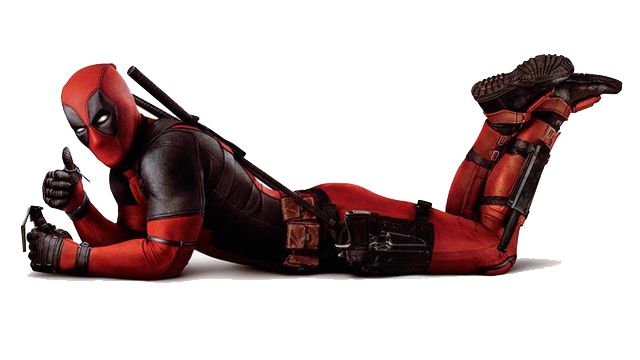
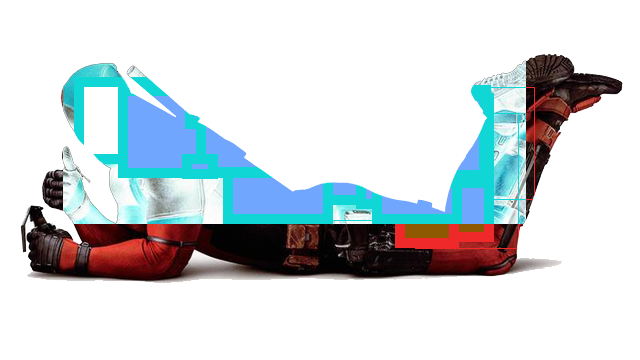
rotate 50

Changed region(s): [[0.0938, 0.1528, 0.8438, 0.7028]]

diff --git a/png/image.cpp b/png/image.cpp
@@ -8,13 +8,13 @@ int Image::open_png_file(const char *file_name){
     /* open file and test for it being a png */
     FILE *fp = fopen(file_name, "rb");
     if (!fp){
-      cout << "Can't open file to read. Bye\n";
+      //cout << "Can't open file to read. Bye\n";
       return -1;
     }
 
     fread(header, 1, 8, fp);
     if (png_sig_cmp(header, 0, 8)!=0) {
-      cout << "file is not recognized as a PNG. Bye\n";
+      //cout << "file is not recognized as a PNG. Bye\n";
       return -1;
       // Some error handling: file is not recognized as a PNG
     }
@@ -69,6 +69,13 @@ int Image::open_png_file(const char *file_name){
     if (Bitmap.color_type == PNG_COLOR_TYPE_GRAY && Bitmap.bit_depth < 8) png_set_expand_gray_1_2_4_to_8(Bitmap.png_ptr);
     // и добавляем полный альфа-канал
     if (png_get_valid(Bitmap.png_ptr, Bitmap.info_ptr, PNG_INFO_tRNS)) png_set_tRNS_to_alpha(Bitmap.png_ptr);
+
+    // These color_type don't have an alpha channel then fill it with 0xff.
+    if(Bitmap.color_type == PNG_COLOR_TYPE_RGB ||
+       Bitmap.color_type == PNG_COLOR_TYPE_GRAY||
+       Bitmap.color_type == PNG_COLOR_TYPE_PALETTE)
+        png_set_filler(Bitmap.png_ptr,0xFF, PNG_FILLER_AFTER);
+
     //grey to rgb
     if (Bitmap.color_type == PNG_COLOR_TYPE_GRAY || Bitmap.color_type == PNG_COLOR_TYPE_GRAY_ALPHA)
       png_set_gray_to_rgb(Bitmap.png_ptr);
@@ -83,13 +90,15 @@ int Image::open_png_file(const char *file_name){
     Bitmap.bit_depth = png_get_bit_depth(Bitmap.png_ptr, Bitmap.info_ptr);
     Bitmap.number_of_passes = png_set_interlace_handling(Bitmap.png_ptr);
 
-
+    Bitmap.color_type=6;
     printf("color_type = %d\n",Bitmap.color_type);
 
 
+    //cout<< res_x<<"\n" << res_y<<"\n";
+
     /* read file */
     if (setjmp(png_jmpbuf(Bitmap.png_ptr))){
-      cout << "can't read image\n";
+     // cout << "can't read image\n";
       return -1;
     }
 
@@ -161,7 +170,7 @@ int Image::save_png_file(const char *file_name){
     }
 
     png_set_IHDR(Bitmap.png_ptr, Bitmap.info_ptr, Bitmap.width, Bitmap.height,
-                 Bitmap.bit_depth, Bitmap.color_type, PNG_INTERLACE_NONE,
+                 Bitmap.bit_depth, PNG_COLOR_TYPE_RGBA, PNG_INTERLACE_NONE,
                  PNG_COMPRESSION_TYPE_BASE, PNG_FILTER_TYPE_BASE);
 
     png_write_info(Bitmap.png_ptr, Bitmap.info_ptr);
@@ -182,6 +191,7 @@ int Image::save_png_file(const char *file_name){
         //cout <<"error during writing bytes\n";
         return -1;
     }
+
 
     png_write_image(Bitmap.png_ptr, Bitmap.row_pointers);
 
@@ -298,6 +308,119 @@ void Image::rec_fill(int x1,int y1,int x2, int y2, int thickness, QColor fill_co
             }
 }
 
+void Image::division(int N, int M, int thickness, QColor color){
+    unsigned int space_y=(Bitmap.height -(N-1)*thickness)/N;
+    unsigned int space_x=(Bitmap.width-(M-1)*thickness)/M;
+    int comst=0;
+    for (int y=space_y;y<Bitmap.height-space_y;y=y+space_y) {
+            comst=y;
+            for(y;y<comst+thickness;y++){
+                for(png_uint_32 x=0;x<Bitmap.width;x++){
+                    Bitmap.Pixels[y][x].red = static_cast<uint8_t>( color.red());
+                    Bitmap.Pixels[y][x].green = static_cast<uint8_t>( color.green());
+                    Bitmap.Pixels[y][x].blue = static_cast<uint8_t>( color.blue());
+                }
+                //printf("%d\n",y);
+            }
+        }
+        for(int y=0;y<Bitmap.height;y++){
+            //png_byte *row = image->row_pointers[y];
+            for (int x=space_x;x<Bitmap.width-space_x;x=x+space_x) {
+                comst=x;
+                for (x;x<comst+thickness;x++) {
+                    //png_byte *ptr = &(row[x * 3]);
+                    Bitmap.Pixels[y][x].red = static_cast<uint8_t>( color.red());
+                    Bitmap.Pixels[y][x].green = static_cast<uint8_t>( color.green());
+                    Bitmap.Pixels[y][x].blue = static_cast<uint8_t>( color.blue());
+                }
+            }
+        }
+
+}
+
+int Image::rotate(int x1,int y1,
+            int x2, int y2,
+                   int angle){
+    if (x2 < x1)
+            std::swap(x1, x2);
+    if (y2 < y1)
+        std::swap(y1, y2);
+    Pixel_t **Pixels2 = static_cast<Pixel_t **>(malloc(sizeof(Pixel_t *) * Bitmap.height));
+    for (int i = 0; i < Bitmap.height; i++) {
+        Pixels2[i] = static_cast<Pixel_t*>(calloc(sizeof(Pixel_t), Bitmap.width));
+    }
+
+    for (int y = 0; y < Bitmap.height; y++){
+        for (int x = 0; x < Bitmap.width; x++){
+            Pixels2[y][x] = Bitmap.Pixels[y][x];
+        }
+    }
+
+    if(angle == 90){
+        int mid_x=x2-(x2-x1)/2;
+        int mid_y=y2-(y2-y1)/2;
+        /*if((x2-x1)/2>(y2-y1/2)||(x2-x1)/2>Bitmap.height-(y2-y1/2)){
+            return -1;
+        }
+        if((y2-y1)/2>(x2-x1/2)||(y2-y1)/2>Bitmap.width-(x2-x1/2)){
+            return -1;
+        }*/
+
+        int lenx=x2-x1;
+        int leny=y2-y1;
+        Pixel_t **tmp = static_cast<Pixel_t **>(malloc(sizeof(Pixel_t *)*lenx));
+        for (int i = 0; i < lenx; i++) {
+            tmp[i] = static_cast<Pixel_t*>(calloc(sizeof(Pixel_t), leny));
+        }
+
+        for (int y = 0; y < leny; y++){
+            for (int x = 0; x < lenx; x++){
+
+                //Pixels2[y][x]= Bitmap.Pixels[y][x];
+                tmp[x][leny-1-y]=Pixels2[y+y1][x+x1];
+            }
+        }
+
+        for (int y = y1; y < y2; y++){
+            for (int x = x1; x < x2; x++){
+
+                //Pixels2[y][x]= Bitmap.Pixels[y][x];
+                Pixels2[y][x].red=255;
+                Pixels2[y][x].green=255;
+                Pixels2[y][x].blue=255;
+            }
+        }
+
+        for (int y = 0; y < lenx; y++){
+            for (int x = 0; x < leny; x++){
+
+                //Pixels2[y][x]= Bitmap.Pixels[y][x];
+
+                Pixels2[mid_y-lenx/2+y][mid_x-leny/2+x]=tmp[y][x];
+            }
+        }
+
+    }
+
+    if(angle == 180){
+
+        for (int y = y1; y < y2; y++){
+            for (int x = x1; x < x2; x++){
+                Pixels2[y1+y2-y][x1+x2-x]= Bitmap.Pixels[y][x];
+            }
+        }
+    }
+
+
+    Pixel_t **Pixels1 = Bitmap.Pixels;
+    Bitmap.Pixels = Pixels2;
+
+    for(int y = 0; y < Bitmap.height; y++) {
+        free(Pixels1[y]);
+    }
+    free(Pixels1);
+    return 0;
+}
 
 QPixmap Image::get_pixmap()
 {
@@ -308,7 +431,7 @@ QPixmap Image::get_pixmap()
             pixel.setRed(Bitmap.Pixels[y][x].red);
             pixel.setGreen(Bitmap.Pixels[y][x].green);
             pixel.setBlue(Bitmap.Pixels[y][x].blue);
-            image->setPixel(x, y, pixel.rgb());
+            image->setPixel(x, y, pixel.rgba());
         }
     }
     return QPixmap::fromImage(*image);

diff --git a/png/mainwindow.cpp b/png/mainwindow.cpp
@@ -29,6 +29,11 @@ void MainWindow::on_open_triggered()
         QMessageBox::critical(this, "Ошибка", "Не удалось открыть изображение");
     }
     //picture->new_size(img->Bitmap.width,img->Bitmap.height);
+    if(img->Bitmap.color_type!=6){
+        QMessageBox::critical(this, "YOU SHAL NOT PASS", "ЭТО НЕ RGBA");
+        return;
+    }
+    filename=file_name;
     picture->update(img->get_pixmap());
     ui->gridLayout->addWidget(picture);
     //QMessageBox::critical(this, "Ошибка", file_name);
@@ -68,6 +73,15 @@ void MainWindow::on_Rectangle_clicked()
 
 }
 
+void MainWindow::on_refrsh_triggered()
+{
+    if (img->open_png_file(filename.toLocal8Bit().constData())){
+        QMessageBox::critical(this, "Ошибка", "Не удалось открыть изображение");
+    }
+    picture->update(img->get_pixmap());
+    ui->gridLayout->addWidget(picture);
+}
+
 void MainWindow::on_exit_triggered()
 {
     QMessageBox::StandardButton reply = QMessageBox::question(this,"Прощай","Ты хочешь покинуть меня?", QMessageBox::Yes | QMessageBox::No);
@@ -98,20 +112,41 @@ void MainWindow::selection(){
             QMessageBox::critical(this, "Ошибка", "Неккоректно задана область");
             return;
         }
-            key=img->print_rectangle(picture->click_coordinate.x1, picture->click_coordinate.y1, picture->click_coordinate.x2, picture->click_coordinate.y2,sett->rec_line_size,sett->rec_line_color);
-            if(key==-1){
-                QMessageBox::critical(this, "Ошибка", "Недопустимые размеры области при заданной ширине");
-                return;
-            }
+        if(sett->rec_line_size==0){
+            QMessageBox::warning(this, "Неа", "Недопустимая толщина");
+            return ;
+        }
+        key=img->print_rectangle(picture->click_coordinate.x1, picture->click_coordinate.y1, picture->click_coordinate.x2, picture->click_coordinate.y2,sett->rec_line_size,sett->rec_line_color);
+        if(key==-1){
+            QMessageBox::critical(this, "Ошибка", "Недопустимые размеры области при заданной толщина");
+            return;
+        }
 
-            if(sett->fill){
-                img->rec_fill(picture->click_coordinate.x1, picture->click_coordinate.y1, picture->click_coordinate.x2, picture->click_coordinate.y2,sett->rec_line_size,sett->rec_fill_color);
-            }
-            picture->update(img->get_pixmap());
-            ui->gridLayout->addWidget(picture);
-            break;
-
-
+        if(sett->fill){
+            img->rec_fill(picture->click_coordinate.x1, picture->click_coordinate.y1, picture->click_coordinate.x2, picture->click_coordinate.y2,sett->rec_line_size,sett->rec_fill_color);
+        }
+        picture->update(img->get_pixmap());
+        ui->gridLayout->addWidget(picture);
+        break;
+    case SPLIT:
+        if(sett->vertical_count==0||sett->gorizontal_count==0||sett->line_split_size==0){
+            QMessageBox::critical(this, "Ошибка", "Недопустимые настройки разделения фото");
+        }
+        img->division(sett->vertical_count,sett->gorizontal_count,sett->line_split_size,sett->split_color);
+        picture->update(img->get_pixmap());
+        ui->gridLayout->addWidget(picture);
+        break;
+    case ROTATE:
+        if (picture->click_coordinate.x1 < 0 || picture->click_coordinate.x1 >= static_cast<int>(img->Bitmap.width) ||
+            picture->click_coordinate.x2 < 0 || picture->click_coordinate.x2 >= static_cast<int>(img->Bitmap.width) ||
+            picture->click_coordinate.y1 < 0 || picture->click_coordinate.y1 >= static_cast<int>(img->Bitmap.height) ||
+            picture->click_coordinate.y2 < 0 || picture->click_coordinate.y2 >= static_cast<int>(img->Bitmap.height)){
+            QMessageBox::critical(this, "Ошибка", "Неккоректно задана область");
+            return;
+        }
+        img->rotate(picture->click_coordinate.x1, picture->click_coordinate.y1, picture->click_coordinate.x2, picture->click_coordinate.y2,90);
+        picture->update(img->get_pixmap());
+        ui->gridLayout->addWidget(picture);
     }
 }
 
@@ -121,3 +156,28 @@ void MainWindow::on_Options_clicked()
 {
     sett->exec();
 }
+
+
+void MainWindow::on_Split_clicked()
+{
+   // QApplication::quit();
+    //QMessageBox::critical(this, "Ошибка", "хули");
+    if (img->Bitmap.width == 0 || img->Bitmap.height == 0){
+        QMessageBox::critical(this, "Ошибка", "Для использования инструментов загрузите изображение");
+        return;
+    }
+    button_pressed = SPLIT;
+    //picture->button_pressed = SPLIT;
+}
+
+void MainWindow::on_Rotate_clicked()
+{
+    if (img->Bitmap.width == 0 || img->Bitmap.height == 0){
+        QMessageBox::critical(this, "Ошибка", "Для использования инструментов загрузите изображение");
+        return;
+    }
+    button_pressed = ROTATE;
+    picture->button_pressed = ROTATE;
+}
+
+

diff --git a/png/settings.h b/png/settings.h
@@ -18,6 +18,10 @@ public:
     QColor rec_fill_color, rec_line_color, split_color;
     bool fill=false;
     int rec_line_size=1;
+    int line_split_size=1;
+
+    int gorizontal_count=1;
+    int vertical_count =1;
 
 private slots:
     void on_rec_line_color_clicked();
@@ -29,6 +33,12 @@ private slots:
     void on_rec_line_size_valueChanged(int arg1);
 
     void on_rec_is_fill_stateChanged(int arg1);
+
+    void on_gorizontal_count_valueChanged(int arg1);
+
+    void on_vertical_count_valueChanged(int arg1);
+
+    void on_line_split_size_valueChanged(int arg1);
 
 private:
     Ui::Settings *ui;

diff --git a/png/mainwindow.h b/png/mainwindow.h
@@ -31,10 +31,14 @@ private slots:
     void on_save_triggered();
     void selection();
     void on_Rectangle_clicked();
-    void on_pattern_2_clicked();
-    void on_options_clicked();
 
     void on_Options_clicked();
+
+    void on_Split_clicked();
+
+    void on_Rotate_clicked();
+
+    void on_refrsh_triggered();
 
 private:
     Ui::MainWindow *ui;
@@ -45,6 +49,7 @@ private:
     QColor color;
     Settings *sett;
     int key;
+    QString filename;
 };
 
 #endif // MAINWINDOW_H

diff --git a/png/settings.cpp b/png/settings.cpp
@@ -49,3 +49,18 @@ void Settings::on_rec_is_fill_stateChanged(int arg1)
     else
         fill = false;
 }
+
+void Settings::on_gorizontal_count_valueChanged(int arg1)
+{
+    gorizontal_count = ui->gorizontal_count->value();
+}
+
+void Settings::on_vertical_count_valueChanged(int arg1)
+{
+    vertical_count = ui->vertical_count->value();
+}
+
+void Settings::on_line_split_size_valueChanged(int arg1)
+{
+    line_split_size = ui->line_split_size->value();
+}

diff --git a/png/image.h b/png/image.h
@@ -45,12 +45,13 @@ public:
     void division(int N, int M,
                   int thickness, QColor color);
 
-    void rotate(int lh_x,int lh_y,
-                int rl_x, int rl_y,
+    int rotate(int x1,int y1,
+                int x2, int y2,
                 int angle);
 
 
     QPixmap get_pixmap();
+
 
 };
 #endif // IMAGE_H

diff --git a/png/mygraphicview.h b/png/mygraphicview.h
@@ -10,6 +10,7 @@
 #define INVERSE 1
 #define ROTATE 2
 #define RECTANGLE 3
+#define SPLIT 4
 
 struct Coordinate{
     int x1=0;
